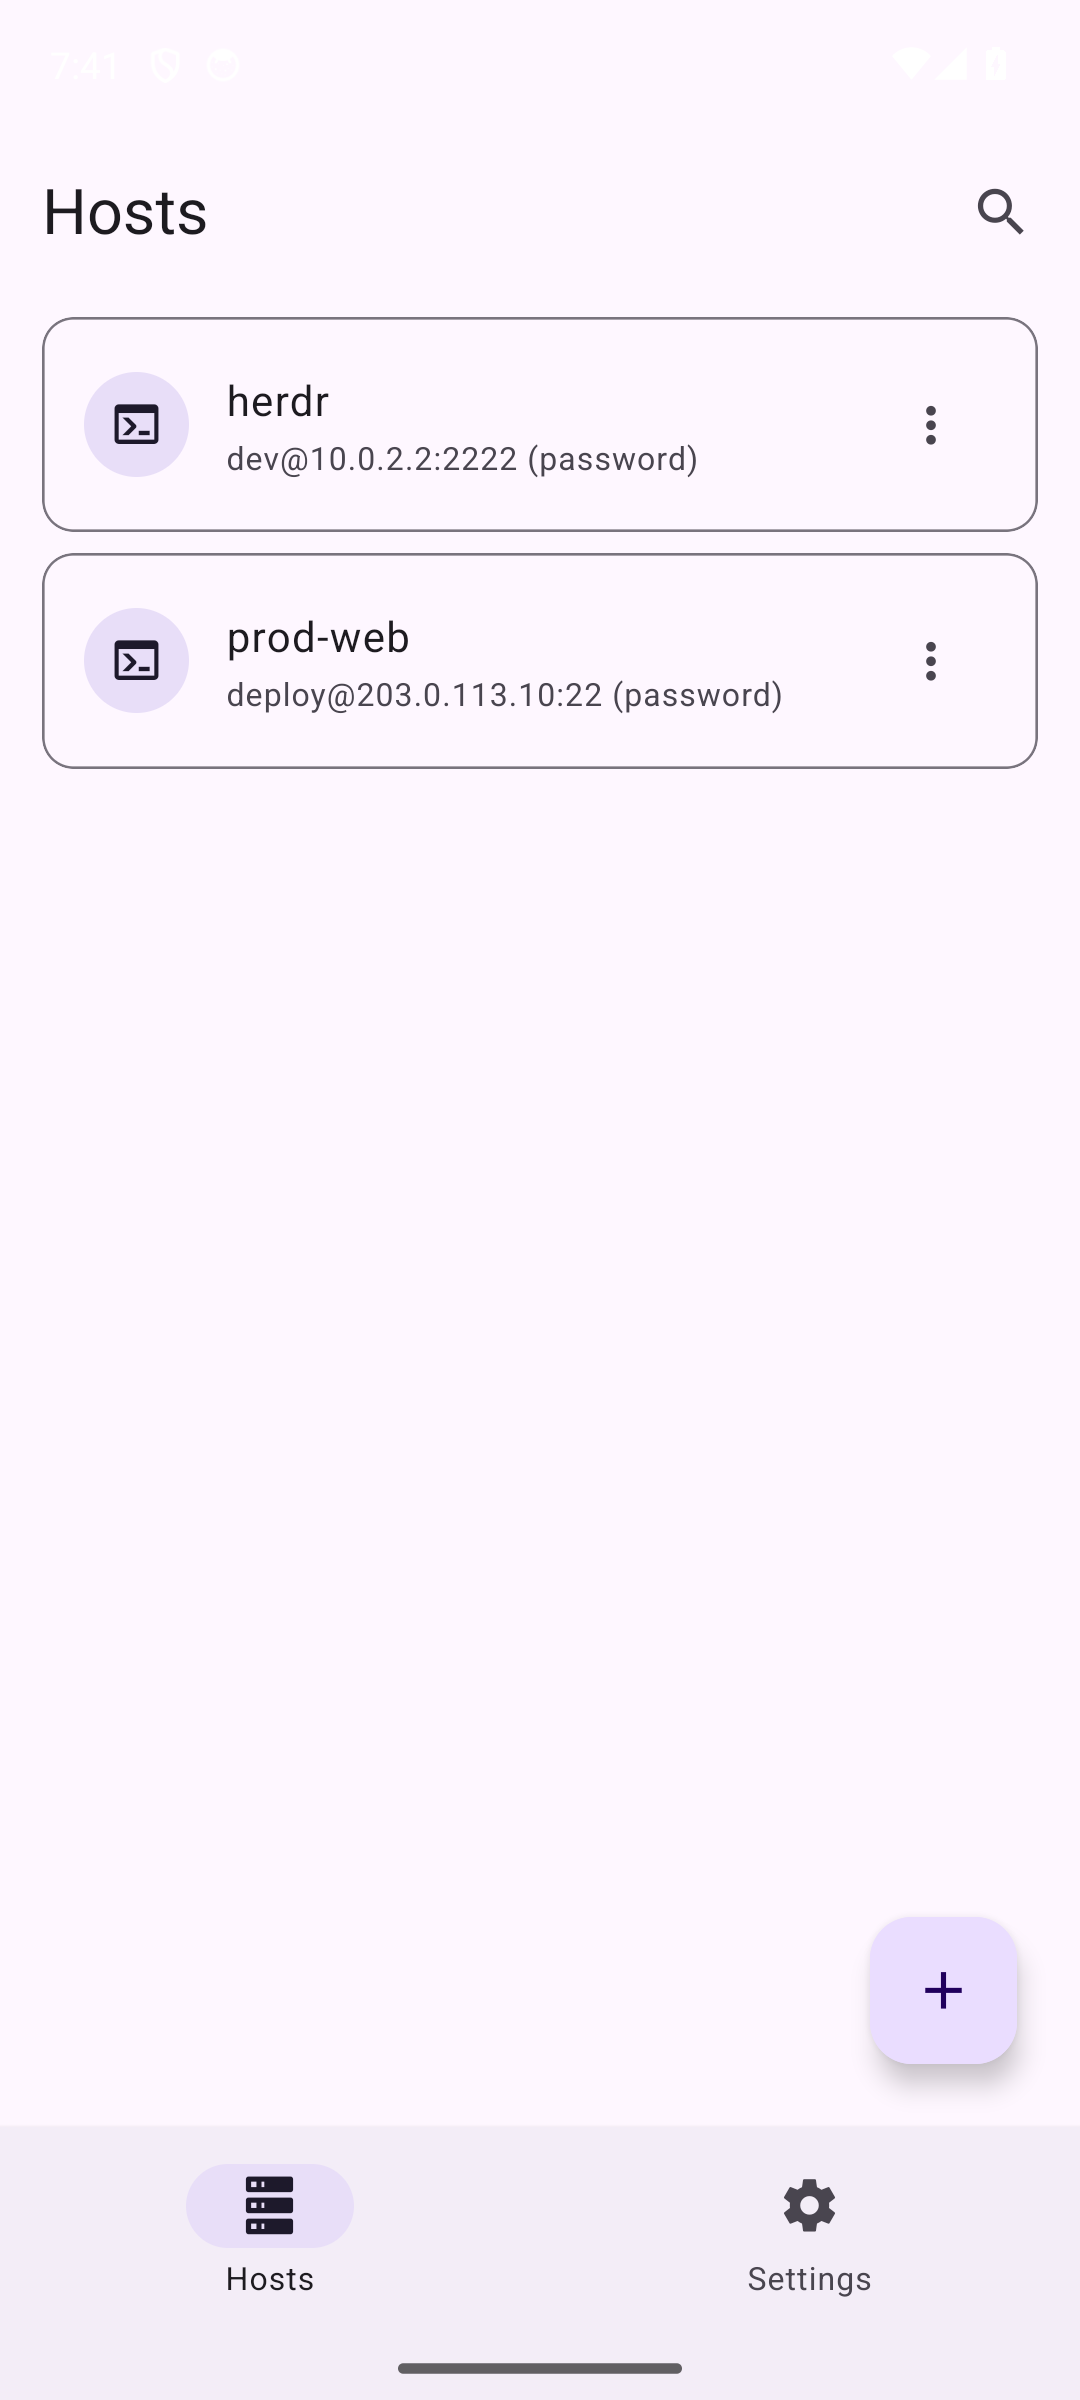
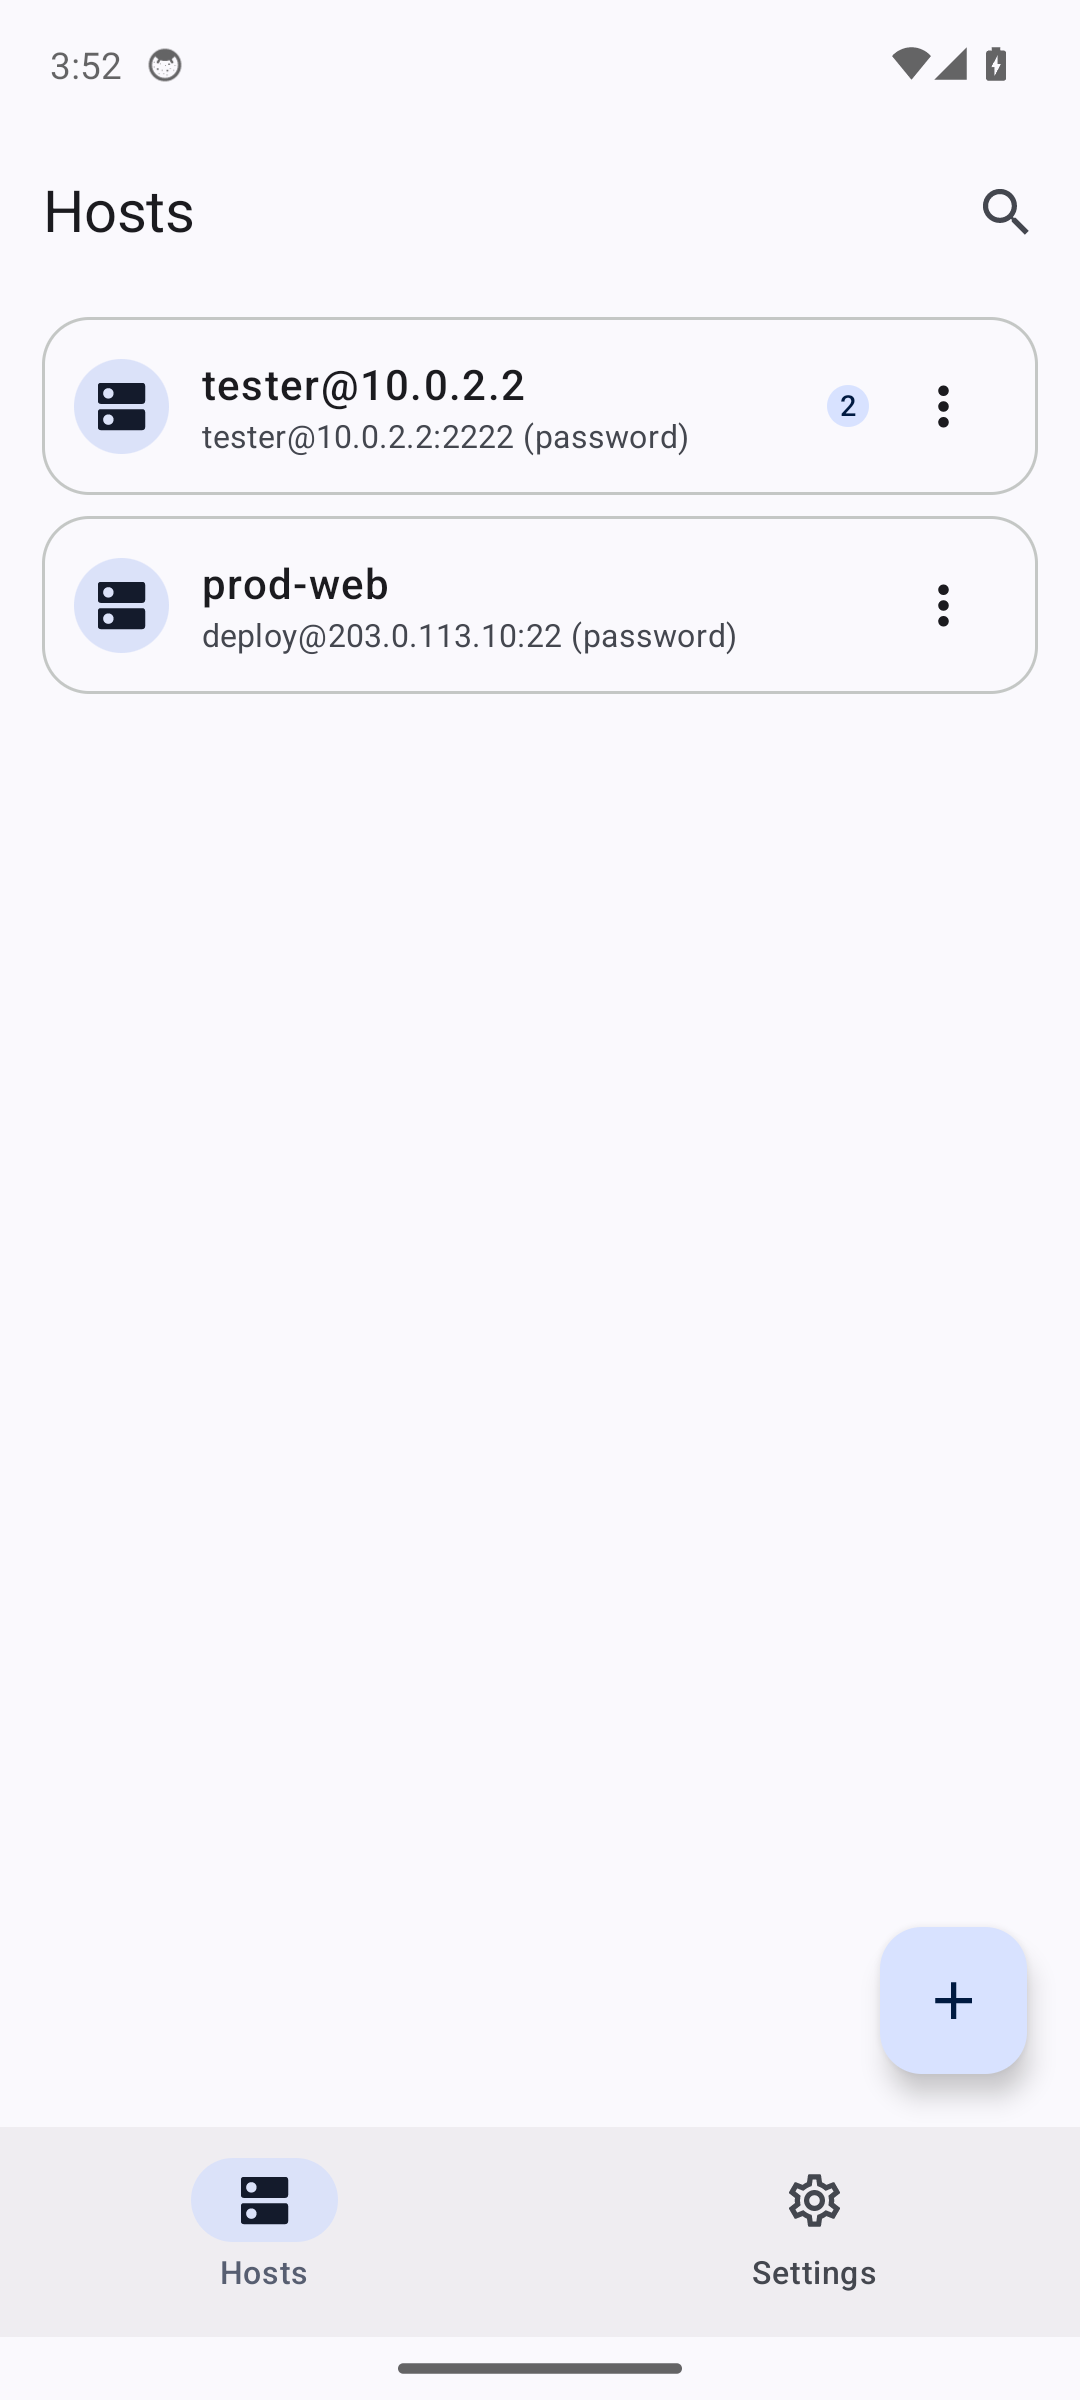
fix(herdr): register the lifecycle observer on the main thread
Opening Workspaces crashed with IllegalStateException: a callbackFlow
body runs in the collector's context, and HerdrStore collects on
Dispatchers.Default, so addObserver ran off the main thread.

diff --git a/app/android/app/src/main/java/com/remotly/app/ui/screens/HerdrWorkspaceScreen.kt b/app/android/app/src/main/java/com/remotly/app/ui/screens/HerdrWorkspaceScreen.kt
@@ -77,10 +77,12 @@ import androidx.compose.ui.platform.LocalContext
 import com.remotly.app.notify.TerminalNotifications
 import kotlin.math.abs
 import kotlin.math.hypot
+import kotlinx.coroutines.Dispatchers
 import kotlinx.coroutines.channels.awaitClose
 import kotlinx.coroutines.delay
 import kotlinx.coroutines.flow.Flow
 import kotlinx.coroutines.flow.callbackFlow
+import kotlinx.coroutines.flow.flowOn
 import kotlinx.coroutines.launch
 
 /** The plugin that carries the actions herdr's own CLI cannot express. */
@@ -235,6 +237,10 @@ fun HerdrWorkspaceScreen(
             lifecycleOwner.lifecycle.addObserver(observer)
             awaitClose { lifecycleOwner.lifecycle.removeObserver(observer) }
         }
+            // The store collects on Dispatchers.Default, and a callbackFlow
+            // body runs in the collector's context. Registering a lifecycle
+            // observer off the main thread throws.
+            .flowOn(Dispatchers.Main.immediate)
     }
 
     val client = remember { HerdrClient() }

diff --git a/README.md b/README.md
@@ -2,9 +2,9 @@
 
 A standalone SSH and SFTP client for Android.
 
-| Hosts | Terminal | Herdr workspaces |
-| --- | --- | --- |
-| ![Hosts screen](docs/images/hosts.png) | ![SSH terminal](docs/images/terminal.png) | ![Herdr workspaces](docs/images/workspaces.png) |
+| Hosts | Terminal | Files | Herdr workspaces |
+| --- | --- | --- | --- |
+| ![Hosts screen](docs/images/hosts.png) | ![SSH terminal](docs/images/terminal.png) | ![File browser](docs/images/files.png) | ![Herdr workspaces](docs/images/workspaces.png) |
 
 ## What it does
 
@@ -14,12 +14,16 @@ A standalone SSH and SFTP client for Android.
 - **A file browser that holds the whole folder.** A directory is read once and
   kept, so search covers every entry in it rather than the part that happened
   to be on screen, sorting is instant, and a folder already visited is redrawn
-  on the way back up while it refreshes behind the list.
-- **Transfers that stay off the JS thread.** Both directions move between the
+  on the way back up while it refreshes behind the list. It opens as a tab
+  beside the shells and keeps its directory, so copying between two places on
+  one host does not mean leaving the terminal.
+- **Transfers that never buffer the file.** Both directions move between the
   content URI and the server in native code, with SFTP requests pipelined
-  rather than one round trip at a time. A resumed upload rewinds past anything
-  the server cannot vouch for instead of appending to whatever length it
-  reports.
+  rather than one round trip at a time, and progress throttled so a transfer
+  does not repaint the screen thousands of times. A resumed upload rewinds
+  past anything the server cannot vouch for instead of appending to whatever
+  length it reports. A name collision asks Keep both or Replace rather than
+  picking one.
 - **Full shell environment.** Every session starts from a login shell, so
   PATH, aliases, functions, and version managers (nvm, pyenv, asdf) are all
   present.
@@ -86,7 +90,9 @@ Requires JDK 17 or later, the Android SDK with an NDK, and Go 1.26.
 
 The app links a Go SSH/SFTP core built with gomobile. It is a build output
 rather than a checked-in binary, so a fresh clone builds it once before Gradle
-can resolve it:
+can resolve it. gomobile runs `javac` and reads `ANDROID_HOME` itself, so a
+JRE on `PATH` or an SDK found only through `ANDROID_SDK_ROOT` fails there
+while Gradle's own toolchain is fine:
 
 ```sh
 # Produces app/android/app/libs/sshcore.aar. Needed again only after a change
@@ -157,8 +163,20 @@ Pushing a `v*` tag builds and attaches to the GitHub release:
 | --- | --- |
 | `app-release.apk` | Signed Android app |
 
-`scripts/release.sh` builds the same signed APK locally, alongside a
-`SHA256SUMS` file for verification.
+`scripts/release.sh` builds the same APK locally into `dist/`, with a
+`SHA256SUMS` file and the signing identity beside it. It reads its keystore
+from a different set of variables than Gradle does:
+
+```sh
+export ANDROID_KEYSTORE=/absolute/path/to/release.jks
+export ANDROID_KEYSTORE_PASSWORD=...
+export ANDROID_KEY_ALIAS=...
+export ANDROID_KEY_PASSWORD=...   # only when the key has its own password
+scripts/release.sh
+```
+
+Without `ANDROID_KEYSTORE` it produces `remotly-android-development.apk`,
+signed with the debug key and named so nobody mistakes it for a release.
 
 ## License
 
